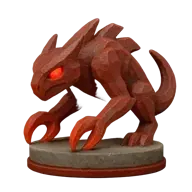
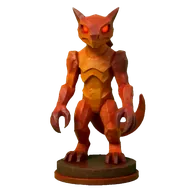
v1.90.27: Sechs Monster in neuer Fassung – Hetzer mit Tiefe; Sturmklaue, Zerreißer, Streuner, Brandstifter und Brutmutter aufrecht
Alle sechs hat der Besitzer am 4.10. gesehen und freigegeben ("alle sind gut",
"gerne einbauen Runde 5", "Brutmutter ist perfekt"); eingebaut wurde erst
danach.

- Hetzer: dasselbe geschnitzte Bild, nur seine grobe Helligkeit an eine
  Farbvorlage angeglichen (dunklere Hörner, tiefere Augenhöhlen, hellere Brust)
  - gerechnet, weil die Fassung der Bild-KI "nicht mehr ganz so geschnitzt" war.
- Streuner: aufrecht (60 -> 76 % der Offiziershöhe), ungestreckt, offenes Maul
  ("der Mund vorne ist wie geschlossen, das sieht doof aus"), mattes Korn.
- Sturmklaue: aufrecht (58 -> 78 %), Flügelhäute blaugrün.
- Zerreißer: aufrecht (56 -> 100 %), Klauenhände. Band: der Automat hält auch
  am neuen Bild die Stufe zwischen Farbring und Wand für die Standfläche (18) -
  Handwert 48 aus dem Breitenverlauf.
- Brandstifter: aufrecht (64 -> 96 %), Feuerfarben, das Auge violett (am
  fertigen Bild umgerechnet). Nicht erreicht: Kopf weiter im Profil, Kamm
  eckig. Seine Karte trug noch den BLAUEN Akzent aus v1.90.19 (#4d7cff in
  bosses.js) - im Kontrollbild gesehen, jetzt #ff5a1f.
- Brutmutter: schlanker gewunden auf schmalem Teller (78 -> 105 %; sie
  überragt die Offiziere leicht - so gezeigt und freigegeben).

Sockelmaße je Bild einzeln gemessen und eingetragen, Tellerkanten am
Breitenverlauf geprüft, Farben nur für die geänderten übernommen. Alte Bilder
in archiv/ausgemustert/v1.90.27/, Rohlinge in archiv/bilder/painted/.
[…]

diff --git a/test_ui.jsx b/test_ui.jsx
@@ -225,20 +225,22 @@ const piece = (x = {}) => ({ id: 1, kind: "Q", color: "w", level: 1, abilities: 
       return h * Math.min(1, Math.max(0.92, Math.min(1.10, 561 / h))) / 561 * 100; };
     ok(`v1.90.25: der Hetzer steht bei 89-100 % der Offiziere (${monsterAmBrett("boss-b02").toFixed(1)})`,
       monsterAmBrett("boss-b02") >= 89 && monsterAmBrett("boss-b02") <= 100.5);
-    /* Sturmklaue, Zerreisser und Streuner: die aufrechten Neufassungen vom
-       3.10. hat der Besitzer NICHT freigegeben ("zu hochgezogen", "zu
-       digital", "wichtig, dass wir an der alten Optik dranbleiben") - im
-       Spiel stehen weiter die alten, breiten Bilder (Teller-Halbbreite > 200).
-       Kommt ein freigegebenes Bild, faellt diese Pruefung und wird ersetzt. */
-    ok("v1.90.25: Sturmklaue, Zerreisser und Streuner tragen weiter die alten Bilder (nichts Ungefreigegebenes eingebaut)",
-      ["boss-b15", "boss-b22", "boss-b05"].every((id) => SB5[id].rx > 200));
-    /* Der Zerreisser trug seit jeher einen zu flachen Teller (25): der Automat
-       hielt die Stufe zwischen dem roten Farbring und der Steinwand fuer die
-       Standflaeche, das Band bedeckte nur den Ring und die Wand stand nackt
-       darueber. Jetzt 70 (Handwert, Herleitung in messe_tellerkante.py): die
-       Oberkante liegt UEBER dem Farbring auf der Kante der Standflaeche. */
-    ok("v1.90.25: das Band des Zerreissers reicht ueber den Farbring bis zur Standflaeche (Handwert 70), das des Hetzers bleibt 46",
-      SB5["boss-b22"].tellerVonHand === true && SB5["boss-b22"].teller === 70 && SB5["boss-b22"].teller > SB5["boss-b22"].ring + 30
+    /* v1.90.27: Sturmklaue, Zerreisser, Streuner und Brandstifter stehen
+       aufrecht - vom Besitzer am 4.10. freigegeben ("alle sind gut", dazu das
+       offene Maul des Streuners und das violette Auge des Brandstifters). */
+    /* Die Brutmutter (v1.90.27, "perfekt"): schlanker gewunden auf schmalem
+       Teller - sie ueberragt die Offiziere um gut 5 %, so hat der Besitzer sie
+       gesehen und freigegeben. */
+    ok(`v1.90.27: die Brutmutter steht bei 100-106 % der Offiziere (${monsterAmBrett("boss-b03").toFixed(1)})`,
+      monsterAmBrett("boss-b03") >= 100 && monsterAmBrett("boss-b03") <= 106 && SB5["boss-b03"].teller === 35);
+    const vier = ["boss-b15", "boss-b22", "boss-b05", "boss-b13"];
+    ok(`v1.90.27: Sturmklaue, Zerreisser, Streuner und Brandstifter stehen bei 75-100 % der Offiziere (${vier.map((id) => id.slice(5) + " " + monsterAmBrett(id).toFixed(1)).join(", ")})`,
+      vier.every((id) => monsterAmBrett(id) >= 75 && monsterAmBrett(id) <= 100.5 && SB5[id].boden === 555 && SB5[id].oben === 21));
+    /* Der Zerreisser: der Automat haelt die Stufe zwischen Farbring und Wand
+       fuer die Standflaeche (meldet 18) - Handwert 48, Herleitung in
+       messe_tellerkante.py. Die Oberkante liegt UEBER dem Farbring. */
+    ok("v1.90.27: das Band des Zerreissers reicht ueber den Farbring bis zur Standflaeche (Handwert 48), das des Hetzers bleibt 46",
+      SB5["boss-b22"].tellerVonHand === true && SB5["boss-b22"].teller === 48 && SB5["boss-b22"].teller > 16 + 25
       && SB5["boss-b02"].tellerVonHand === true && SB5["boss-b02"].teller === 46);
     const begegnet = html(<HofKachel img={PAINTED["boss-b22"]} name="Der Zerreißer" bossId="b22" dim />);
     const fremd = html(<HofKachel img={PAINTED["boss-b22"]} name="???" bossId="b22" dark />);

diff --git a/src/content/bosses.js b/src/content/bosses.js
@@ -136,12 +136,12 @@ export const BOSSES = [
      Blutmagd (b16) waren zwei rote Schlangen mit Rueckenkamm, am Brett
      kaum zu unterscheiden; die Blutmagd bleibt blutrot. Das Gemaelde ist per tools/umfaerben.py
      (218 Grad, Glutaugen bleiben, Saettigung 0,85) blau gedreht, der
-     Akzent folgt (#ff4d5e -> #4d7cff). Die roten Originale liegen in
+     Akzent folgt (#ff4d5e -> #4d7cff; v1.90.27: wieder Feuer, #ff5a1f). Die roten Originale liegen in
      archiv/ausgemustert/v1.90.19/.
      v1.90.20 (Besitzer: "noch heller" ist die Grundlage): die umgefaerbten
      Flaechen tragen die doppelte Leuchtdichte (umfaerben.py ... 1.0 2.0),
      Figurfarbe nachgemessen #2f439e. */
-  B("b13", "Brandstifter",     "Firestarter",     "serpent", "#4d7cff",  14, 10, { slides: DIAG }, { flavorDe: "Er sammelt keine Beute; er hinterlässt nur Asche, ordentlich verteilt.", flavorEn: "He gathers no spoils; he leaves only ash, evenly spread.", abilities: ["aderlass", "gift"] }),  // scharf, aber glas
+  B("b13", "Brandstifter",     "Firestarter",     "serpent", "#ff5a1f",  14, 10, { slides: DIAG }, { flavorDe: "Er sammelt keine Beute; er hinterlässt nur Asche, ordentlich verteilt.", flavorEn: "He gathers no spoils; he leaves only ash, evenly spread.", abilities: ["aderlass", "gift"] }),  // scharf, aber glas
   B("b14", "Der Koloss",       "The Colossus",    "golem",   "#94a3b8", 21, 3, { slides: ORTHO, range: 2, leaps: DIAG }, { flavorDe: "Er trägt die Rüstung nicht — er ist sie, bis hinunter zum Herzen aus Stein.", flavorEn: "He does not wear the armour — he is it, down to the heart of stone.", aura: { type: "grant", id: "bulwark" }, abilities: ["steinhaut", "unsterblich", "widerhall", "schrecken", "aderlass"] }),  // seine AURA ist die Gabe: Eigenpanzer + Panzer-Aura kaskadierte in der Sim (+77 Feldwirkung)
   B("b15", "Die Sturmklaue",   "The Stormclaw",   "beast",   "#38bdf8",  16, 8, { leaps: [...CAMEL, ...sym(0, 3)] }, { flavorDe: "Sie kommt mit dem Wetter und geht mit ihm; dazwischen liegt der Schaden.", flavorEn: "She comes with the weather and leaves with it; the damage lies between.", abilities: ["blenden", "wegelagerei"] }),
   B("b16", "Die Blutmagd",     "The Bloodmaid",   "serpent", "#fb7185", 17, 7, { slides: KING, range: 1, leaps: [[0, 2], [0, -2]] }, { flavorDe: "Aus dem Lazarett verschwand erst der Aderlass, dann die Magd. Was der Riss aus ihr machte, windet sich noch immer um sein Werk.", flavorEn: "First the bloodletting vanished from the infirmary, then the maid. What the Rift made of her still coils around its work.", aura: { type: "grant", id: "lifesteal" }, abilities: ["gift", "aderlass", "unsterblich", "schrecken"] }),

diff --git a/scripts/messe_tellerkante.py b/scripts/messe_tellerkante.py
@@ -43,23 +43,16 @@ ORDNER = "src/app/ui/assets/painted"
 #             Teller dadurch im Bild kleiner: Wand bis 44 px, Abfall ab 48
 #             (269, 253, 233). Gesetzt auf 46; Gegenprobe 555 - 46 = 509 gegen
 #             (523 - 46) + ry 32,1 = 509,1.
-#   boss-b22  (v1.90.25, der Zerreisser - das ALTE, breite Bild): DERSELBE
-#             Fehler wie beim Hetzer, und er stand seit jeher in der Datei. Der
-#             Teller traegt unten einen breiteren roten Farbring, darueber die
-#             graue Steinwand; der Automat hielt die Stufe dazwischen fuer die
-#             Standflaeche und meldete 25. Das Band sass deshalb 45 px zu tief:
-#             es bedeckte nur den roten Ring, die ganze Steinwand stand nackt
-#             darueber. Besitzer am 3.10. mit Bildschirmfoto: "bei der Figur
-#             hast du es noch nie geschafft, das Band richtig zu machen".
-#             Am Breitenverlauf (Hoehe ueber der unteren Ellipsenmitte y 497):
-#             Ring 413-417 px bis 24, Wand 400-404 px von 28 bis 72, Abfall ab
-#             76 (386). An der Mittelspalte wechselt die Farbe bei y 461-464
-#             von der Wand (84,68,51) auf die helle Kante (139,127,106).
-#             Gesetzt auf 70; Gegenprobe 533 - 70 = 463 gegen
-#             (497 - 70) + ry 36,2 = 463,2.
-#             (Eine aufrechte Neufassung lag am 3.10. vor, war aber nicht
-#             freigegeben - kommt ein neues Bild, gehoert dieser Wert neu
-#             gemessen.)
+#   boss-b22  (v1.90.27, der Zerreisser steht aufrecht - neues Bild): DERSELBE
+#             Fehler wie beim Hetzer. Der Teller traegt unten einen breiteren
+#             Farbring, darueber die graue Wand; der Automat haelt die Stufe
+#             dazwischen fuer die Standflaeche (meldet 18; am alten, breiten
+#             Bild 25 - darum sass dort das Band seit jeher zu tief, v1.90.25
+#             setzte es von Hand auf 70). Am Breitenverlauf des neuen Bildes
+#             (Hoehe ueber der unteren Ellipsenmitte): Ring 252-254 px bis 16,
+#             Wand 238 px von 24 bis 44, Abfall ab 52 (222, 200, 182).
+#             Gesetzt auf 48; Gegenprobe 555 - 48 = 507 gegen
+#             (529,5 - 48) + ry 25,5 = 507.
 #   gambit-t2 hat denselben Sockel wie gambit-t3 (Profil deckungsgleich: 98 %
 #             bei 40, 90 % bei 50, 75 % bei 60), der Automat fand aber einen
 #             Scheinknick bei 14. Gesetzt auf 45, wie bei t3 gemessen.
@@ -76,7 +69,7 @@ ORDNER = "src/app/ui/assets/painted"
 #             muss weiter runter"): in v1.90.21 stand hier 49 - ich hatte
 #             Boden minus Wandoberkante gerechnet und ry NICHT abgezogen. Das
 #             Band stand 25 px zu hoch, seine Oberkante lag auf den Fuessen.
-HANDWERTE = {"boss-b02": 46, "boss-b22": 70, "gambit-t2": 45, "boss-b25": 24}
+HANDWERTE = {"boss-b02": 46, "boss-b22": 48, "gambit-t2": 45, "boss-b25": 24}
 MASSE = json.load(open("src/app/ui/board/sockelband.json"))
 
 def kante(fid, m):

diff --git a/CLAUDE.md b/CLAUDE.md
@@ -41,8 +41,8 @@ gambitrise.com zeigt darauf).
   pruefe-navigation, pruefe-textfluss, test_layout) lesen den Chromium-Pfad aus
   `PW_CHROMIUM`; ohne die Variable gilt der Pfad des Cloud-Containers. Lokal:
   `npx playwright install chromium` und `PW_CHROMIUM=<Pfad zur chrome-Datei>`.
-- `npm test` — volle Batterie. MUSS **31 Suiten / 2689 Prüfungen** melden
-  (Stand v1.90.26; der Runner stoppt nach der ersten roten Suite, also
+- `npm test` — volle Batterie. MUSS **31 Suiten / 2690 Prüfungen** melden
+  (Stand v1.90.27; der Runner stoppt nach der ersten roten Suite, also
   Suitenzahl prüfen, nicht nur Assertions! **Zählweise seit v1.90.18
   (Audit A74): JEDE Suite der Kette meldet eine RESULT-Zeile** — alle Zeilen
   `RESULT…: N passed` summieren; test_balance meldet zwei, darum stehen im
@@ -468,7 +468,7 @@ Quelltext lesen hat wiederholt getäuscht; gemessen wird am lebenden DOM
   Auswahl-Lichtspektakel.
 - Alles Optionale abschaltbar (Klang, Online).
 
-## Offene Baustellen (Stand v1.90.26, 3.10.2026)
+## Offene Baustellen (Stand v1.90.27, 4.10.2026)
 
 **Einstieg für jede neue Sitzung: `design/CHAT-EINSTIEG-2026-09-27.md`** (zehn
 Minuten, mit dem Startsatz für den Chat), dann **`design/UEBERGABE-2026-09-27.md`** — Stand,
@@ -484,12 +484,14 @@ Hier nur der Überblick:
 - **Monster überarbeiten, vier je Runde** (Besitzer 1.10.): per fal-Edit am
   bestehenden Bild (nur mit Freigabe), dann lokal auf Höhe gerechnet wie
   Osric, am Brett neben dem Springer gezeigt, erst dann eingebaut. **Eingebaut:
-  Hetzer, Wächter, Bollwerk (v1.90.23; Hetzer in v1.90.25 um 9,5 % höher)** —
-  nur höher, Optik unverändert. **NICHT eingebaut, in Arbeit:** Sturmklaue,
-  Zerreißer, Streuner, Brandstifter und mehr Tiefe/Akzente für den Hetzer — drei
-  Runden lagen dem Besitzer vor (3.10.), keine ist freigegeben; sein letztes
-  Wort: „nicht mehr ganz so geschnitzt … zu digital … an der alten Optik
-  dranbleiben“. Danach Skorpion, Brutmutter;
+  Wächter, Bollwerk (v1.90.23), Hetzer, Sturmklaue, Zerreißer, Streuner,
+  Brandstifter, Brutmutter (v1.90.27, am 4.10. freigegeben).** Was dabei trug: FLUX Kontext
+  für die Haltung und für KLEINE gezielte Änderungen („make ONLY one change: the
+  mouth is open“), nano-banana nannte der Besitzer „zu digital“. Tiefe und
+  Akzente lieber RECHNEN: die grobe Helligkeit des geschnitzten Bildes an eine
+  Farbvorlage angleichen (Hetzer), mattes Korn als Rauschen auflegen
+  (Streuner), ein Auge umfärben (Brandstifter) — das Geschnitzte bleibt.
+  In Arbeit: Skorpion (soll ein echter Skorpion werden: Beine, Scheren);
   dazu stehen sechs Großmeister nur bei 62–73 % (Doppelritter, Koloss,
   Eisenfaust, Blutmagd, Kanonier, Seuchenkönig). Runde 3 (nur Akzente): Schleicher, Flüsterin, Brutmutter. Geist
   und Wandlerin bleiben. · Play-Abzeichen als Datei für die Startseite (A58).
@@ -508,11 +510,9 @@ Hier nur der Überblick:
   App-Inhalten sind seit 3.10. bei Google in Prüfung. **Offen: die
   Installation am Handy des Besitzers scheitert** („Bei uns ist ein Fehler
   aufgetreten“ — am Abend des 3.10. ging sie dann durch, Ursache ungeklärt).
-  **Google- und E-Mail-Anmeldung sind tot:** das Supabase-Projekt hinter
-  `VITE_SUPABASE_URL` löst im DNS nicht mehr auf (NXDOMAIN, gemessen 3.10. über
-  dns.google) — pausiert oder gelöscht; der Besitzer muss es im
-  Supabase-Dashboard wiederherstellen oder ein neues anlegen und die beiden
-  Pages-Variablen neu setzen (`SUPABASE-SETUP.md`). Danach S6, dann
+  Die Google-Anmeldung geht wieder (Besitzer 4.10.; am 3.10. löste das
+  Supabase-Projekt im DNS nicht auf — nicht nachgemessen, warum es zurück ist).
+  Danach S6, dann
   S7–S9; die Pflicht „12 Tester, 14 Tage“ gilt für dieses Konto (im Dashboard
   nachgelesen) — siehe `design/PLAYSTORE-BACKLOG.md`.
 

diff --git a/CHANGELOG.md b/CHANGELOG.md
@@ -1,5 +1,44 @@
 # Changelog - Gambit Rise
 
+## 1.90.27 - Sechs Monster in neuer Fassung: Hetzer mit Tiefe; Sturmklaue, Zerreisser, Streuner, Brandstifter und Brutmutter aufrecht
+
+Alle fuenf vom Besitzer am 4.10. freigegeben ("alle sind gut ... gerne
+einbauen Runde 5"), jede erst gezeigt, dann eingebaut.
+
+- **HETZER:** dasselbe geschnitzte Bild, Pixel fuer Pixel - nur seine GROBE
+  Helligkeit ist an eine Farbvorlage angeglichen (dunklere Hoerner, tiefere
+  Augenhoehlen, hellere Brust). Gerechnet, nicht gemalt: die Fassung der
+  Bild-KI war dem Besitzer "nicht mehr ganz so geschnitzt".
+- **STREUNER:** aufrecht (60 -> 76 % der Offiziershoehe), ungestreckt, mit
+  offenem Maul ("der Mund vorne ist ja wie geschlossen, das sieht doof aus")
+  und mattem Korn.
+- **STURMKLAUE:** aufrecht (58 -> 78 %), Fluegelhaeute blaugruen.
+- **ZERREISSER:** aufrecht (56 -> 100 %), Klauenhaende statt der Zangen.
+  Sein Band: der Automat haelt auch am neuen Bild die Stufe zwischen Farbring
+  und Wand fuer die Standflaeche (18) - Handwert 48, am Breitenverlauf gemessen.
+- **BRANDSTIFTER:** aufrecht (64 -> 96 %), Feuerfarben statt Blau ("wuerde ich
+  eher in Rot ueberfuehren ... flammartig"), das Auge leuchtet violett ("in
+  violett leuchten ist besser als blau" - umgerechnet am fertigen Bild, kein
+  neuer Bildauftrag). NICHT erreicht: der Kopf steht weiter im Profil, der
+  Kamm ist eckig geblieben.
+
+- **BRUTMUTTER** ("perfekt"): schlanker gewunden auf schmalem Teller (78 ->
+  105 % - sie ueberragt die Offiziere leicht; so gezeigt und freigegeben).
+- Die Karte des Brandstifters trug noch den BLAUEN Akzent aus v1.90.19
+  (`#4d7cff` in bosses.js) - gesehen im Kontrollbild, jetzt `#ff5a1f`.
+
+Sockelmasse der neuen Bilder einzeln gemessen und eingetragen (nicht die
+ganze Datei neu geschrieben), Tellerkanten am Breitenverlauf geprueft, Farben
+nur fuer die fuenf uebernommen. Alte Bilder: archiv/ausgemustert/v1.90.27/,
+Rohlinge: archiv/bilder/painted/boss-b{05,13,15,22}-original.png.
+
+KRONE UND SCHATTEN BLEIBEN IM REGELWERK. Der Besitzer fragte, ob man sie
+streichen kann, "wenn sie eh keinen Unterschied machen". Sie machen einen: das
+Opfer einer Kronenfigur beim Bestechen, die Buende, die Gaben der Familien.
+Angezeigt werden sie seit v1.90.25 nicht mehr - dabei bleibt es.
+
+Proben: 31 Suiten / 2690 Pruefungen (vorher 2689).
+
 ## 1.90.26 - Das schwarze Band auch an den Bildnissen ausserhalb von Brett, Kachel und Blatt
 
 **"UND DAS ZIEHST DU UEBERALL DURCH"** (Besitzer 3.10.). v1.90.25 hat die helle

diff --git a/archiv/ausgemustert/v1.90.27/WARUM.md b/archiv/ausgemustert/v1.90.27/WARUM.md
@@ -1,0 +1,17 @@
+# Ausgemustert in v1.90.27
+
+## painted-boss-b15, -b22, -b05, -b13 (+ klein/) — Sturmklaue, Zerreißer, Streuner, Brandstifter kauernd
+
+Breit gemalte Teller, flache Körper – am Brett 58 %, 56 %, 60 % und 64 % der
+Offiziershöhe. Die neuen Bilder zeigen sie aufrecht (78 %, 100 %, 76 %, 96 %),
+vom Besitzer am 4.10.2026 freigegeben. Der Brandstifter war blau (v1.90.19
+umgefärbt) und ist jetzt feuerfarben mit violettem Auge.
+
+## painted-boss-b02 (+ klein/) — der Hetzer aus v1.90.25
+
+Dasselbe Bild ohne die gerechnete Tiefe (dunklere Hörner, tiefere Augenhöhlen,
+hellere Brust).
+
+## painted-boss-b03 (+ klein/) — die Brutmutter, breit gewunden
+
+78 % der Offiziershöhe; die neue ist schlanker gewunden auf schmalerem Teller.
